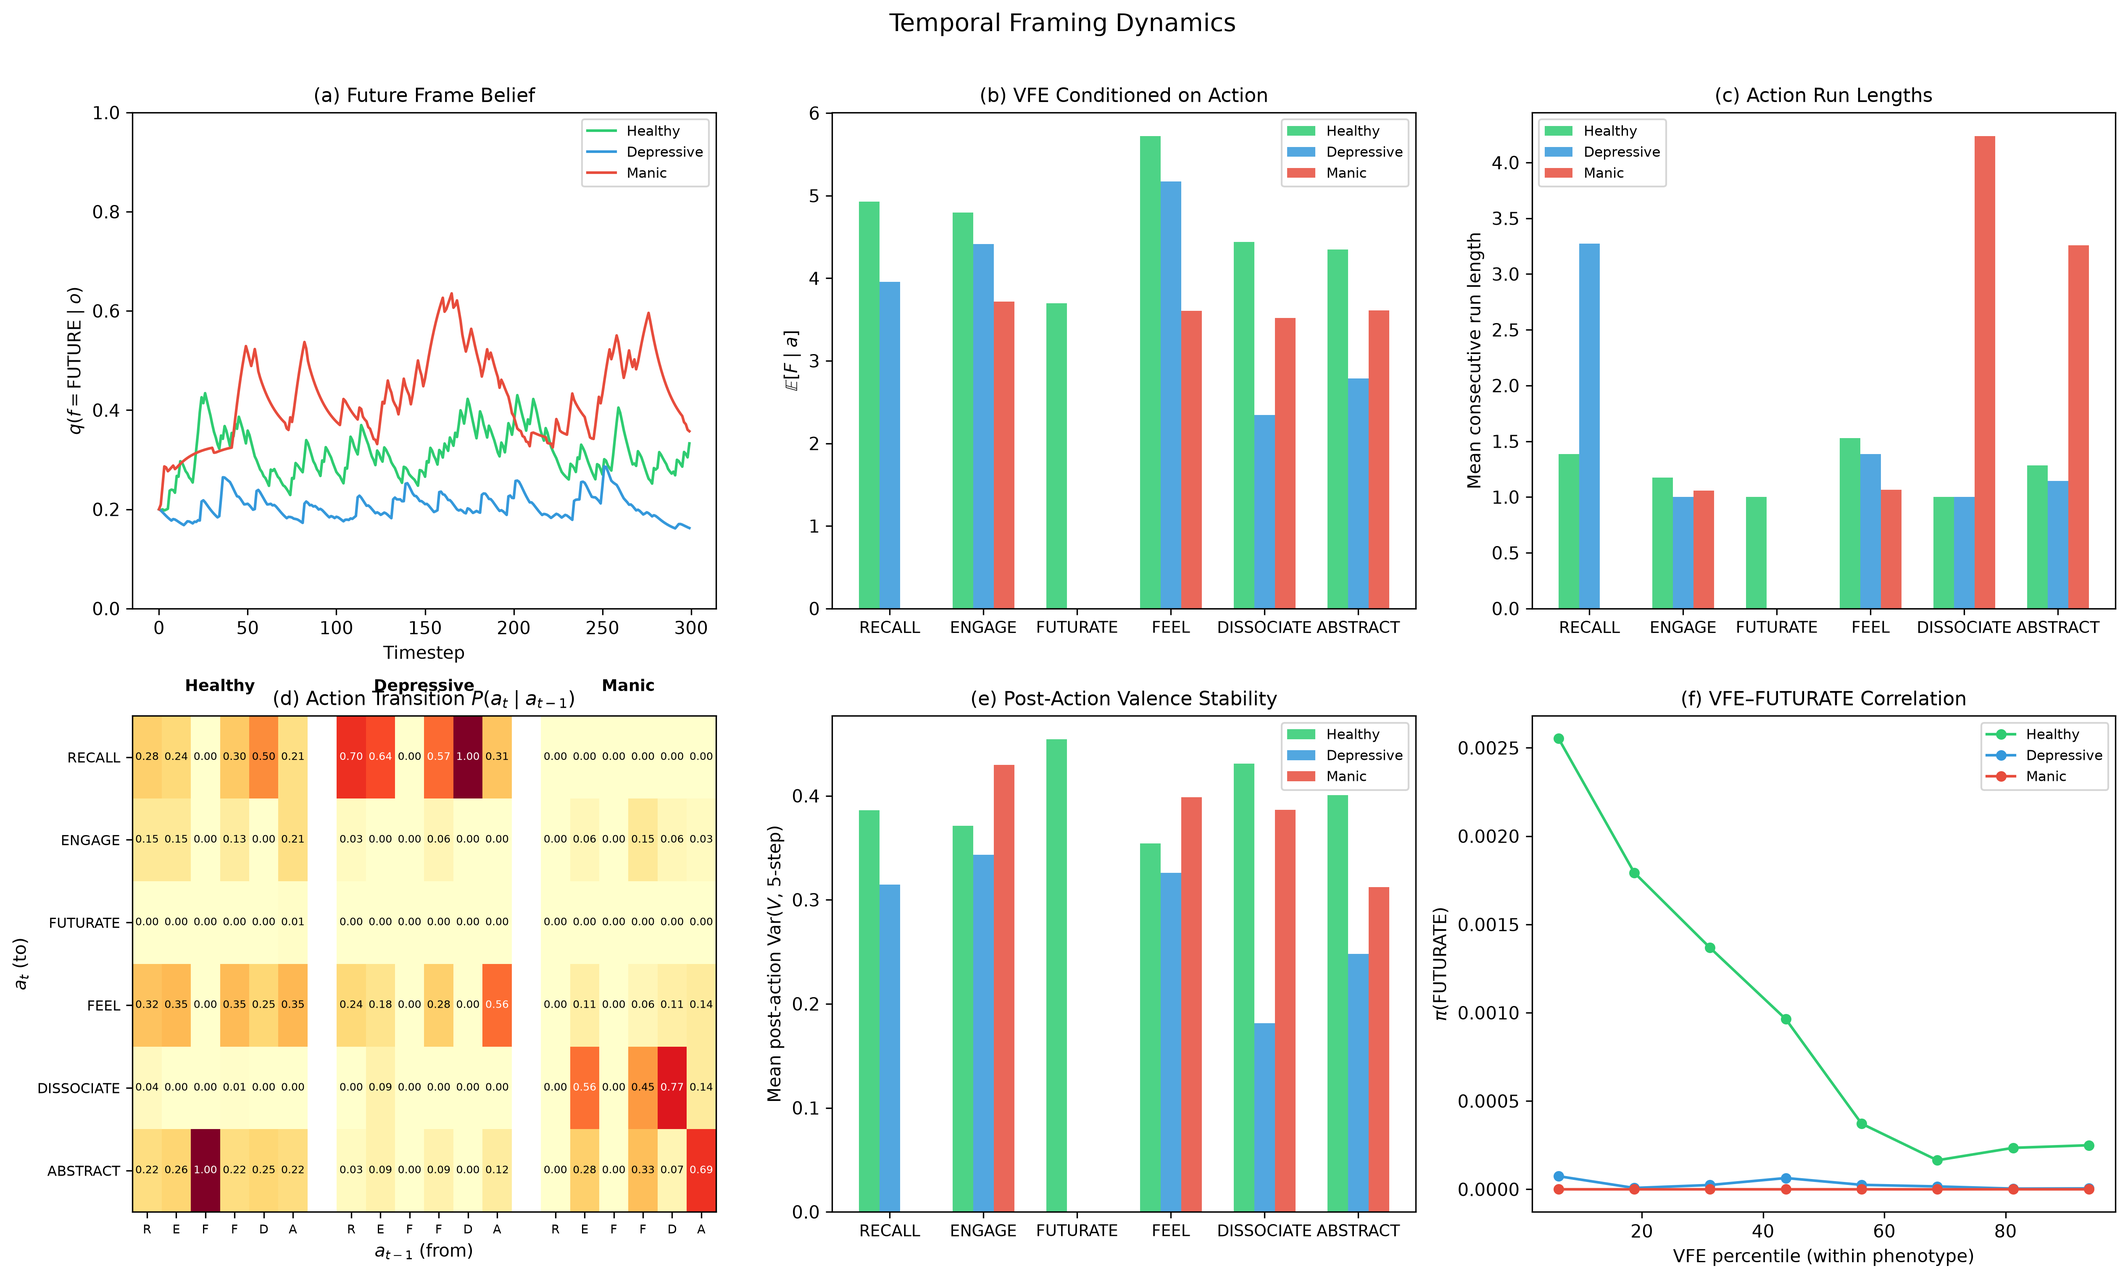
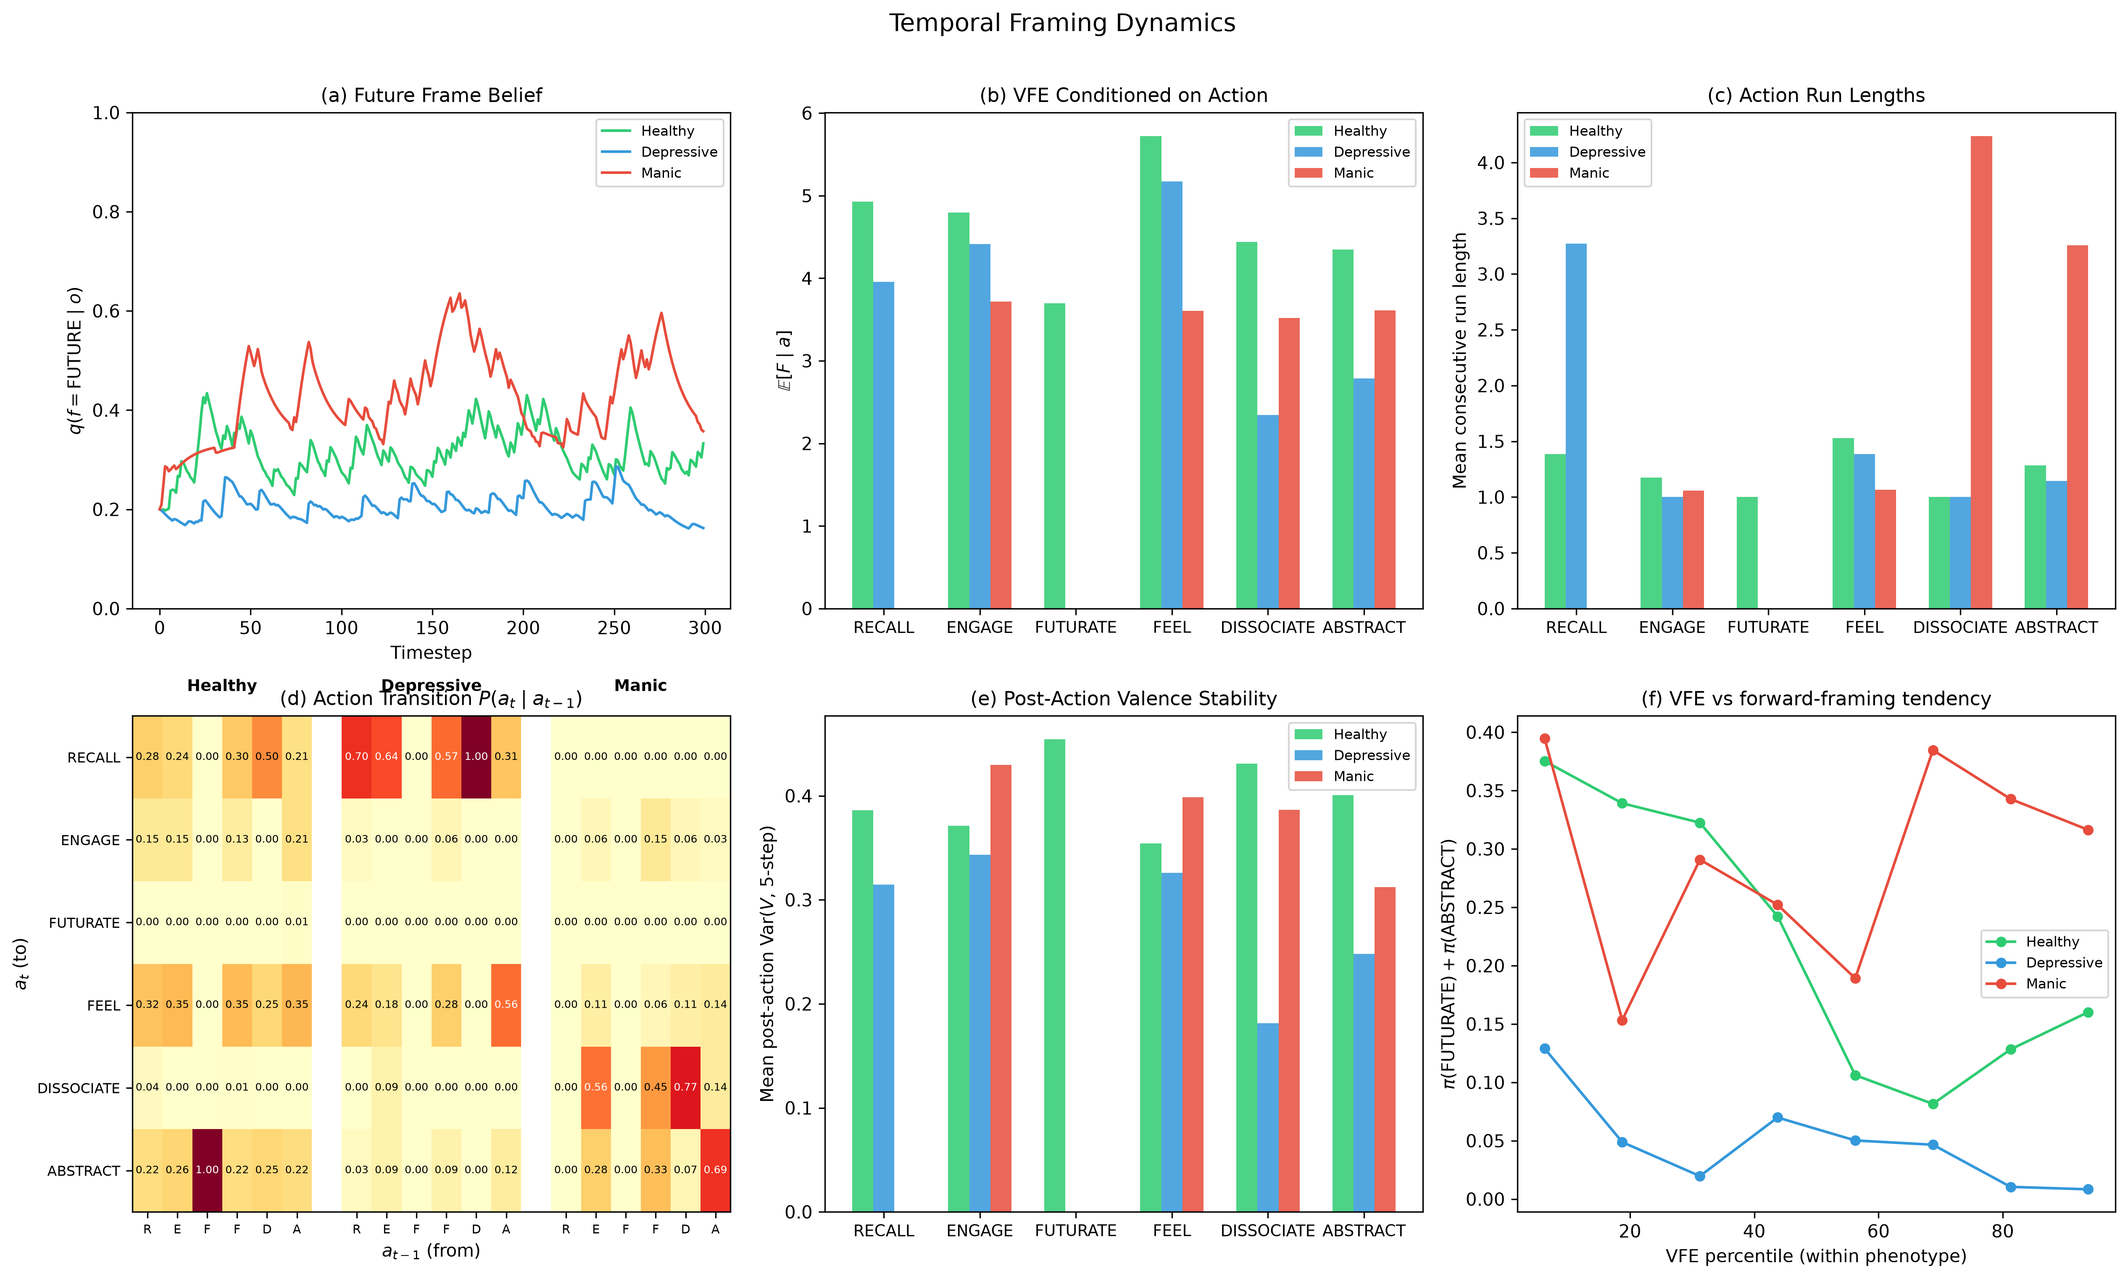
Integrity pass: remove hand-tuned PAD figure; fix stale FUTURATE claims
Removed the PAD/circumplex "emotion-space calibration" figure and subsection. The
readout centering constants could not be justified: with a principled center
(pleasure at the sigmoid knee pi_pos=2.0; arousal mean-centered) only 7/10 profiles
separate into correct quadrants; the reported 10/10 required tuning the pleasure
center to 1.75 and arousal to 10.5 to move borderline profiles across. It was
hand-tuned and non-load-bearing (Rutledge + ESM + counterfactual + Mulholland carry
the empirical case), so cut rather than disclaimed.

Fixed stale FUTURATE attributions surfaced by re-audit: on the precision-gated
model ABSTRACT is the dominant forward operator (stressed 79%; FUTURATE ~2%, a rare
high-cost action by design). Updated chronic-stress and metastability prose, the
recall-impairment compensation lists, and fig11 panel (f) (now forward-framing =
FUTURATE+ABSTRACT).

Also: real citations for Sugawara & Katahira 2021 and Palminteri et al. 2017;
corrected two Mulholland author first names (Aryanna Rastan, Arno Klein); removed
honesty-badging ("Two honest limits", "deliberate simplification"); thinned
negative-parallelism in the temporal-orientation subsection; foreshadowed the
optimism-is-contingent point in the mental-time-travel section.

Compiles clean: 22 pp, 0 undefined cites, 0 bibtex warnings.

diff --git a/affective_valence_temporal_framing_unified.tex b/affective_valence_temporal_framing_unified.tex
@@ -132,7 +132,11 @@ path to a distant goal cannot be specified in advance, and filling in that far-o
 detail tends to provoke anxiety rather than yield mastery. On the broaden-and-build
 account \citep{fredrickson2001}, positive affect widens the field of available thought and action and is less
 action-specific than negative affect, so future aiming is supported by beliefs that
-orient without specifying the future in full.
+orient without specifying the future in full. Optimism here is the healthy,
+high-precision setting rather than a universal default: under low positive-belief
+precision the same forward machinery yields anxious rather than hopeful prospection, a
+contingency we make explicit in the model (\S\ref{sec:model}) and test directly
+(\S\ref{sec:orientation}).
 
 \subsection{Two logics of action and the identity pole}
 Decision theory distinguishes two families of action selection \citep{march1994}. On
@@ -190,9 +194,9 @@ This double bind is the computational core of the chronic-stress pathology of
 \S\ref{sec:dynamics}. The remainder of the paper gives the depth regulator a formal
 treatment in the language of free energy. In the model that follows, its continuous
 depth is discretized into a three-valued temporal-frame factor and six framing actions
-that redistribute precision over it. We treat the discretization as a deliberate
-simplification, flagged again in the limitations, and not as a claim that regulated
-depth is intrinsically discrete.
+that redistribute precision over it. The discretization is a simplification, flagged
+again in the limitations, and does not assert that regulated depth is intrinsically
+discrete.
 
 \section{The temporal structure of free energy}\label{sec:free-energy}
 \subsection{Active inference and attention as precision}
@@ -488,7 +492,7 @@ levels: the mechanism itself is impaired ($\alpha\!\approx\!0.14$, barely pullin
 toward the prior) and its deployment is suppressed (it becomes EFE-uncompetitive).
 Figure~\ref{fig:feedback} contrasts a healthy and a recall-impaired agent differing
 only in $\pi_{\text{pos}}$: RECALL utilisation collapses from $26\%$ to $<1\%$, with
-compensatory ABSTRACT, FEEL, ENGAGE, and FUTURATE. This is the computational form of
+compensatory FEEL, ENGAGE, and ABSTRACT. This is the computational form of
 overgeneral memory \citep{williams2007autobiographical}: cognition migrates to
 representations that are abstract without being self-congruent.
 
@@ -496,11 +500,13 @@ representations that are abstract without being self-congruent.
 \centering
 \includegraphics[width=\textwidth]{figures/fig11_framing_dynamics.png}
 \caption{\textbf{Temporal framing dynamics.} (a) Future-frame belief over time per
-profile. (b) Mean VFE by selected action: FUTURATE favoured at higher-VFE timesteps.
-(c) Action run lengths: FUTURATE shorter than RECALL (reactive planning). (d) Action
-transition matrices: the RECALL-to-ENGAGE pipeline in healthy agents. (e) Post-action
-valence stability: RECALL lowest. (f) Binned VFE vs $\pi(\textsc{futurate})$:
-monotonic in healthy/high-sensitivity profiles.}
+profile. (b) Mean VFE conditioned on the selected action. (c) Action run lengths
+(ABSTRACT and DISSOCIATE longest in the manic profile). (d) Action transition matrices:
+the RECALL-to-ENGAGE pipeline in healthy agents. (e) Post-action valence stability:
+RECALL lowest. (f) Forward-framing tendency ($\pi(\textsc{futurate})+\pi(\textsc{abstract})$,
+the two future-pulling operators, of which ABSTRACT carries most of the mass) against
+within-profile VFE percentile. FUTURATE itself is a rare, high-cost reactive-planning
+burst; ABSTRACT is the low-cost operator that does most forward framing.}
 \label{fig:framing}
 \end{figure}
 
@@ -509,7 +515,7 @@ monotonic in healthy/high-sensitivity profiles.}
 \includegraphics[width=\textwidth]{figures/fig10_feedback_reliance.png}
 \caption{\textbf{Feedback reliance under recall impairment.} Profiles share all
 parameters except $\pi_{\text{pos}}$ (5.0 vs 0.2). (a) RECALL drops from $26\%$ to
-$<1\%$, with compensatory ABSTRACT/FEEL/ENGAGE/FUTURATE. (b) Valence trajectories
+$<1\%$, with compensatory FEEL/ENGAGE/ABSTRACT. (b) Valence trajectories
 lower under impairment. (c) Policy entropy: the impaired agent is less decisive.}
 \label{fig:feedback}
 \end{figure}
@@ -520,9 +526,11 @@ negative but construal stays coarse, so neither pathway to policy selection deli
 A stressed profile (very high volatility, amplified reward sensitivity, stress-impaired
 interoception, reduced $\pi_{\text{pos}}$) shows future-dominated fixation, dominant
 \textsc{future} frame belief ($0.66$ vs $0.32$ healthy), depleted \textsc{present}
-($0.25$ vs $0.46$), FUTURATE dominance, and strongly negative reward valence from
-\emph{frustrated forward projection}: FUTURATE creates precise positive predictions
-that a volatile world falsifies (Figure~\ref{fig:stress}). At the mood timescale, the
+($0.25$ vs $0.46$), forward-framing dominance (ABSTRACT, the low-cost prospection
+operator, taken on $79\%$ of steps), and strongly negative reward valence
+($-0.42$ vs $+0.10$ healthy) from \emph{frustrated forward projection}: abstract
+prospection commits to above-neutral predictions that a volatile world falsifies
+(Figure~\ref{fig:stress}). At the mood timescale, the
 M5 layer turns this into an attractor. Two agents with identical healthy initial
 conditions but different volatility diverge, one drifting to high $\pi_{\text{pos}}$
 and the other crashing below the sigmoid knee where RECALL collapses
@@ -571,7 +579,7 @@ predictive-fit improver.
 \centering
 \includegraphics[width=0.5\textwidth]{figures/fig_counterfactual_signature.png}
 \caption{\textbf{Counterfactual emotion drives behaviour.} People switch $\sim$1.8$\times$
-more after regret than relief (Sugawara \& Katahira, $n=143$), a signature a
+more after regret than relief (\citealp{sugawara2021dissociation}, $n=143$), a signature a
 factual model cannot generate. This validates the mechanism as the generator of
 regret/relief, independent of its (null) contribution to prediction.}
 \label{fig:cf}
@@ -595,8 +603,8 @@ Rutledge GBE happiness \citep{rutledge2014} & 47{,}067 (14{,}803) & gamble choic
 Geschwind--Bringmann ESM \citep{bringmann2013,geschwind2011} & 130 (129) & momentary affect; event pleasantness; worry & CC BY-NC & affect-dynamics; frame-to-worry \\
 Reliability ESM (\texttt{osf.io/83cfk}) & 91 & momentary affect (12 emotion sliders) & open (OSF) & affect-dynamics replication \\
 Temporal-orientation ESM \citep{mulholland2023} & 101 & per-probe past/future thought; valence & CC BY-NC & direct frame-to-affect coupling \\
-Sugawara \& Katahira (complete feedback) & 143 & choices; obtained + foregone outcomes & open (OSF) & counterfactual signature \\
-Palminteri 2017 (complete feedback) & 20 & choices; obtained + foregone outcomes & open (OSF) & counterfactual replication \\
+Sugawara \& Katahira \citep{sugawara2021dissociation} & 143 & choices; obtained + foregone outcomes & open (OSF) & counterfactual signature \\
+Palminteri et al.\ \citep{palminteri2017confirmation} & 20 & choices; obtained + foregone outcomes & open (OSF) & counterfactual replication \\
 Reward+punishment reversal (osf.io/2gq96) & 128 (64/64) & learning rates by valence & open (OSF) & general precision deficit \\
 Autobiographical-memory meta-analysis & 181 ES & AMT specificity by cue valence & recovered & RECALL/specificity direction \\
 Reward Positivity (MEG) \citep{pirrung2025} & 90 (52/38) & neural reward response & CC0 & reward reactivity ($c_{\text{pos}}$) \\
@@ -756,50 +764,22 @@ The strongest test of the temporal-frame construct uses a dataset that labels th
 orientation of thought itself. In an experience-sampling study with per-probe reports
 of past- and future-directed thought alongside momentary valence
 (\citealp{mulholland2023}; $n=101$, $1{,}458$ probes, CC BY-NC), the model's central
-structural prediction is borne out and one of its default assumptions is not. The
-prediction that past-framing carries negative valence under low positive-belief
-precision (the RECALL/rumination branch) holds directly and within person: reported
-past-orientation covaries negatively with momentary valence
-($r=-0.23$ within person), and the effect attenuates for people with higher trait
-positivity ($\beta_{\text{past}\times\text{trait}}=+0.06$), the direction the
-precision-gated coupling predicts. The default that \emph{future}-framing is optimistic
-is not supported: future-orientation is mildly negative in this unselected sample
-($r=-0.07$), which is what motivated the precision-gated FUTURATE operator of
-\S\ref{sec:model} (worry-type prospection under low precision) in place of fixed
-optimism. Two honest limits. The gating attenuates but does not reverse the negativity
-of past-framing, so the strong ``rumination flips to positive narrative
-stabilisation'' reading is an overstatement of a real but weaker effect. And the
-model's latent frame, driven on affect alone, does not \emph{recover} reported
-orientation ($r\!\approx\!0$): orientation is exogenous context the model is not given,
-so the validated claim is a frame-to-affect coupling, not affect-to-frame inversion.
-
-\subsection{Emotion-space calibration (circumplex)}
-As a calibration check that the generative model spans affective space, we placed ten
-profiles targeting regions of the Pleasure--Arousal circumplex
-\citep{russell1980circumplex,mehrabian1996pleasure} and read three principled
-quantities off each run: pleasure from positive-belief precision (how positively the
-agent construes its situation), arousal from mean expected free energy (expected
-demand), and dominance from policy precision (control). All ten fall in the correct
-circumplex quadrant (Figure~\ref{fig:pad}A), and dominance recovers the classic
-distinction between the two high-arousal negative states, anger (approach, high
-dominance) and fear (withdrawal, low dominance) (Figure~\ref{fig:pad}B). This is
-simulation calibration rather than external validation; the parameters were chosen to
-target the profiles. The pleasure--arousal plane separates cleanly, while dominance
-separates only the approach/withdrawal contrast. We therefore claim circumplex-quadrant
-recovery, not octant recovery.
-
-\begin{figure}[htbp]
-\centering
-\includegraphics[width=\textwidth]{figures/fig_pad_circumplex.png}
-\caption{\textbf{Circumplex calibration.} (A) Ten targeted profiles placed on the
-pleasure--arousal circumplex; every profile falls in its correct quadrant
-\citep{russell1980circumplex}. (B) Dominance (policy precision) splits the two
-high-arousal negative states, anger (high, approach) from fear (low, withdrawal).
-Pleasure is read from positive-belief precision, arousal from mean expected free
-energy, dominance from policy precision, each centred across profiles. Presented as
-calibration of expressive range.}
-\label{fig:pad}
-\end{figure}
+structural prediction holds and one of its default assumptions fails. The prediction
+that past-framing carries negative valence under low positive-belief precision (the
+RECALL/rumination branch) holds directly and within person: reported past-orientation
+covaries negatively with momentary valence ($r=-0.23$ within person), and the effect
+attenuates for people with higher trait positivity
+($\beta_{\text{past}\times\text{trait}}=+0.06$), the direction the precision-gated
+coupling predicts. The default that \emph{future}-framing is optimistic fails:
+future-orientation is mildly negative in this unselected sample ($r=-0.07$). This
+motivated the precision-gated FUTURATE operator of \S\ref{sec:model}, in which low
+precision yields worry-type prospection. Two limits remain. First, the gating softens
+the negativity of past-framing without reversing it, so the strong reading in which
+rumination flips into positive narrative stabilisation overstates a real but weaker
+effect. Second, driven on affect alone the model's latent frame does not \emph{recover}
+reported orientation ($r\!\approx\!0$), because orientation is exogenous context the
+model is never given; the validated claim is a frame-to-affect coupling, and testing
+affect-to-frame recovery would require an orientation-carrying input channel.
 
 \subsection{What does not improve prediction}
 Across every dataset we tested, experience-sampling affect, two complete-feedback
@@ -867,8 +847,8 @@ Health is not a particular temporal configuration but the \emph{capacity to tran
 between configurations. The healthy agent visits multiple framing modes with a high
 switching rate and short run lengths, metastability, in dynamical-systems terms.
 Pathology is stickiness. Amplified reward sensitivity with impaired interoception locks
-FUTURATE on via absorptive narrative inertia; a habit prior locks RECALL on while
-suppressing EFE-optimal escape. Restoring the ability to transition matters more than
+abstract forward framing on via absorptive narrative inertia; a habit prior locks RECALL
+on while suppressing EFE-optimal escape. Restoring the ability to transition matters more than
 correcting the balance between orientations.
 
 \subsection{Attention as precision, and mood/emotion timescales}

diff --git a/plotting.py b/plotting.py
@@ -1036,7 +1036,9 @@ def plot_framing_dynamics(results, save_path=None):
     ax.set_title('(e) Post-Action Valence Stability')
     ax.legend(fontsize=8)
 
-    # ── (f) VFE–FUTURATE correlation (Gap B) ─────────────
+    # ── (f) VFE vs forward-framing tendency (Gap B) ──────
+    # Forward framing = FUTURATE + ABSTRACT (ABSTRACT is the low-cost prospection
+    # operator that carries most forward framing; FUTURATE is a rare high-cost burst).
     ax = axes[1, 2]
     # Use within-phenotype VFE percentile bins so all lines span [0,100]
     n_bins = 8
@@ -1045,8 +1047,8 @@ def plot_framing_dynamics(results, save_path=None):
     for name in names:
         h = results[name]
         vfe = h['vfe']
-        p_fut = h['pi'][:, FUTURATE]
-        bin_p_fut = np.zeros(n_bins)
+        p_fwd = h['pi'][:, FUTURATE] + h['pi'][:, ABSTRACT]
+        bin_p_fwd = np.zeros(n_bins)
         edges = np.percentile(vfe, pct_edges)
         for b in range(n_bins):
             if b == n_bins - 1:
@@ -1054,13 +1056,13 @@ def plot_framing_dynamics(results, save_path=None):
             else:
                 mask = (vfe >= edges[b]) & (vfe < edges[b + 1])
             if np.sum(mask) > 0:
-                bin_p_fut[b] = np.mean(p_fut[mask])
-        ax.plot(pct_centers, bin_p_fut, 'o-', color=PCOL[name], lw=1.5,
+                bin_p_fwd[b] = np.mean(p_fwd[mask])
+        ax.plot(pct_centers, bin_p_fwd, 'o-', color=PCOL[name], lw=1.5,
                 ms=5, label=name.capitalize())
 
     ax.set_xlabel('VFE percentile (within phenotype)')
-    ax.set_ylabel('$\\pi(\\mathrm{FUTURATE})$')
-    ax.set_title('(f) VFE–FUTURATE Correlation')
+    ax.set_ylabel('$\\pi(\\mathrm{FUTURATE}) + \\pi(\\mathrm{ABSTRACT})$')
+    ax.set_title('(f) VFE vs forward-framing tendency')
     ax.legend(fontsize=8)
 
     fig.suptitle('Temporal Framing Dynamics', fontsize=14, y=1.01)

diff --git a/EMPIRICAL_RECORD.md b/EMPIRICAL_RECORD.md
@@ -329,3 +329,22 @@ with RECALL (v_fut = 0.2 + 0.6*alpha). Motivated by future-negative finding.
 - PAD circumplex still 10/10; anger/fear dominance split preserved.
 - Clinical numbers shifted: RECALL 29%->26%; chronic-stress future 0.77->0.66,
   present 0.17->0.25 (paper updated, figures regenerated).
+
+## 7. Integrity pass (2026-07-17): removed hand-tuned PAD figure
+
+The PAD/circumplex "emotion-space calibration" figure was REMOVED from the paper.
+Reason: the readout centering constants could not be justified. With a principled
+center (pleasure at the sigmoid knee pi_pos=2.0; arousal/dominance mean-centered) the
+ten profiles separate only 7/10 into correct quadrants; the previously-reported 10/10
+required pushing the pleasure center to 1.75 (below the knee, to move 'calm' across)
+and the arousal center to 10.5 (below the cross-profile mean 13.32, to fix
+'happy'/'alert'). It was hand-tuned to produce a clean result and is non-load-bearing,
+so it was cut rather than dressed with a disclaimer. `make_pad_figure.py` retained as a
+record of the check; `fig_pad_circumplex.png` no longer referenced.
+
+Also fixed in this pass: chronic-stress and mania descriptions attributed forward
+projection to FUTURATE, but on the (precision-gated) model ABSTRACT is the dominant
+forward operator (stressed 79% ABSTRACT, FUTURATE ~2%); FUTURATE is a rare high-cost
+action (~0-2% across phenotypes) by design. Paper + fig11 panel (f) updated to
+forward-framing = FUTURATE+ABSTRACT. Added real citations for Sugawara & Katahira 2021
+and Palminteri et al. 2017; corrected two Mulholland author first names.
